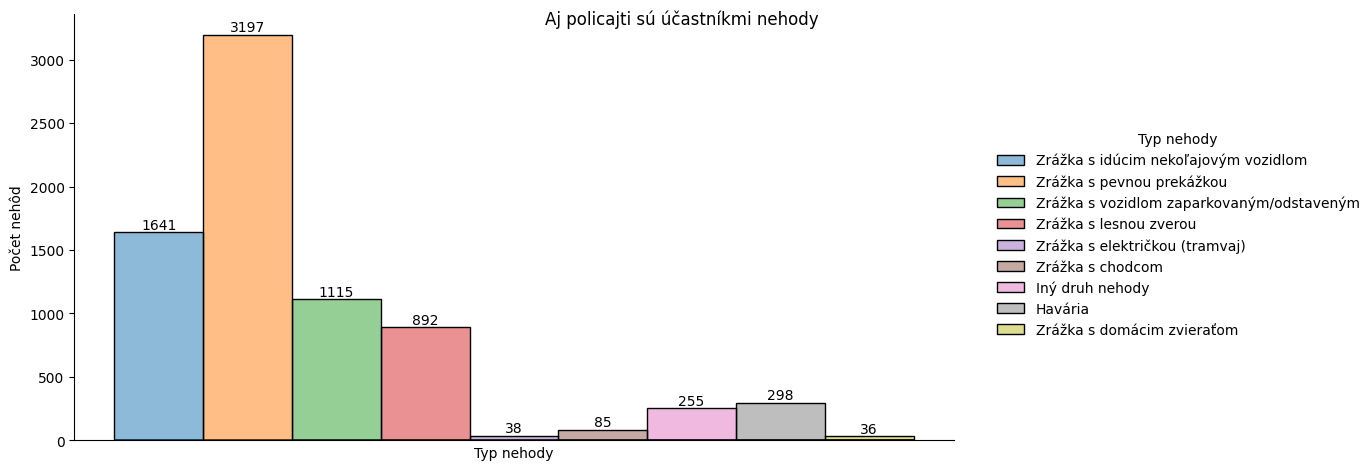
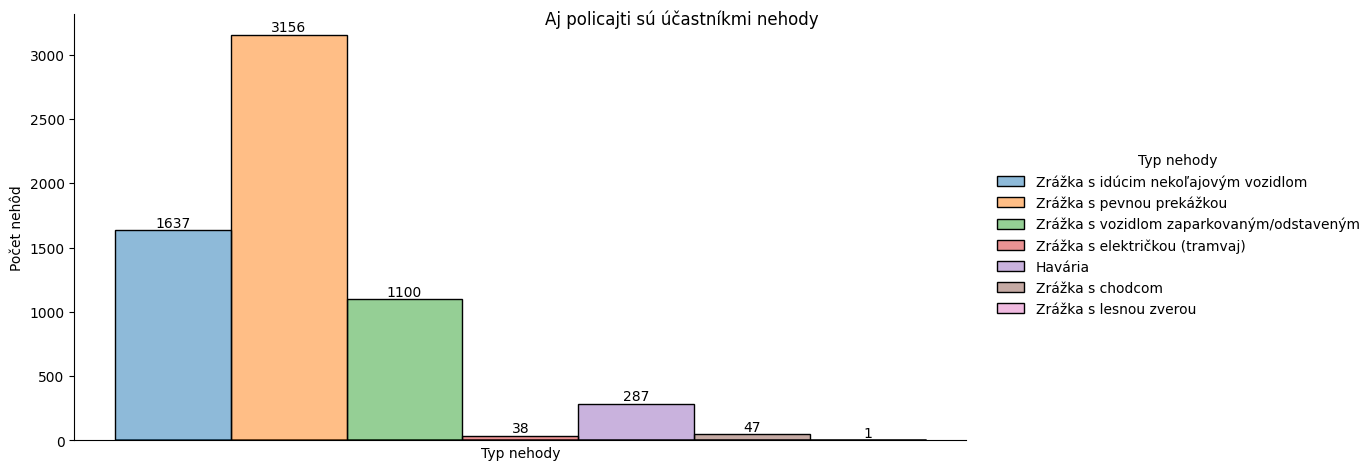
FIX: doc.py graph now shows correct police caused accidents

diff --git a/part03/doc.py b/part03/doc.py
@@ -97,8 +97,6 @@ def interesting_data_graph(df: pd.DataFrame):
     and save it in the pre-configured format (see GRAPH_OUTPUT_FILE)
 
     :param df: Source dataframe prepared by prepare_data()
-
-    TODO p10 = 1 => policajt zavinil nehodu
     """
     accident_type = {
         1: "Zrážka s idúcim nekoľajovým vozidlom",
@@ -110,23 +108,29 @@ def interesting_data_graph(df: pd.DataFrame):
         7: "Zrážka s vlakom",
         8: "Zrážka s električkou (tramvaj)",
         9: "Havária",
-        0: "Iný druh nehody",
     }
 
     data = df.copy()
-    data = data[['p1', 'p6', 'p48a']]
+    data = data[['p1', 'p6', 'p10', 'p48a']]
 
     # Drop empty data for accident types
     data = data.dropna(subset=['p6'])
 
+    # Filter out the unspecified types of an accident
+    data = data[data['p6'] != 0]
     # Map accident type categories to their string descriptions
     data['p6'] = data['p6'].map(accident_type)
     data.rename(columns={'p6': 'Typ nehody'}, inplace=True)
 
-    # Filter out only the accidents caused by the police
+    # Filter out only the accidents which involved the police
     data = data[data['p48a'].isin([12, 13])]
 
-    g = sns.displot(data, x="Typ nehody", hue="Typ nehody",
+    # Filter out only the accidents that were caused by the police
+    data = data[data['p10'] == 1]
+
+    g = sns.displot(data,
+                    x="Typ nehody",
+                    hue="Typ nehody",
                     height=5, aspect=2)
 
     # Fine tune the axis
@@ -136,7 +140,7 @@ def interesting_data_graph(df: pd.DataFrame):
     for container in g.ax.containers:
         g.ax.bar_label(container, fmt=lambda x: int(x) if x > 0 else '')
 
-    plt.suptitle("Aj policajti sú účastníkmi nehody")
+    plt.suptitle("Aj policajti spôsobujú nehody")
 
     g.savefig(GRAPH_OUTPUT_FILE)
     print(f"Graf použitý vo finálnej správe sa úspešne uložil do súboru '{GRAPH_OUTPUT_FILE}'")
@@ -319,8 +323,8 @@ def interesting_data_stats(df: pd.DataFrame):
 
 if __name__ == '__main__':
     _df = prepare_data('accidents.pkl.gz')
-    interesting_data_table(_df, generate_latex=False)
-    print()
+    # interesting_data_table(_df, generate_latex=False)
+    # print()
     interesting_data_graph(_df)
-    print()
-    interesting_data_stats(_df)
+    # print()
+    # interesting_data_stats(_df)
